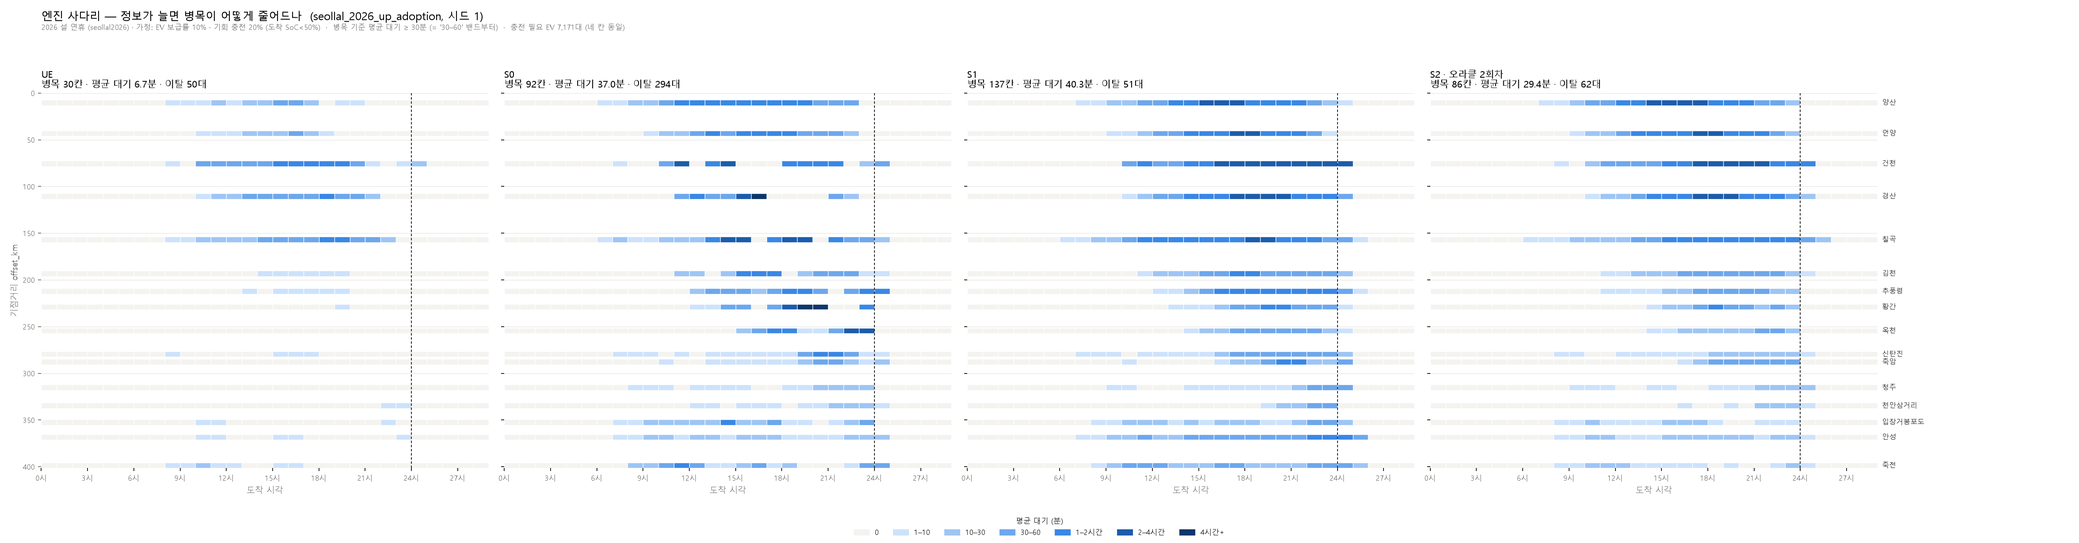
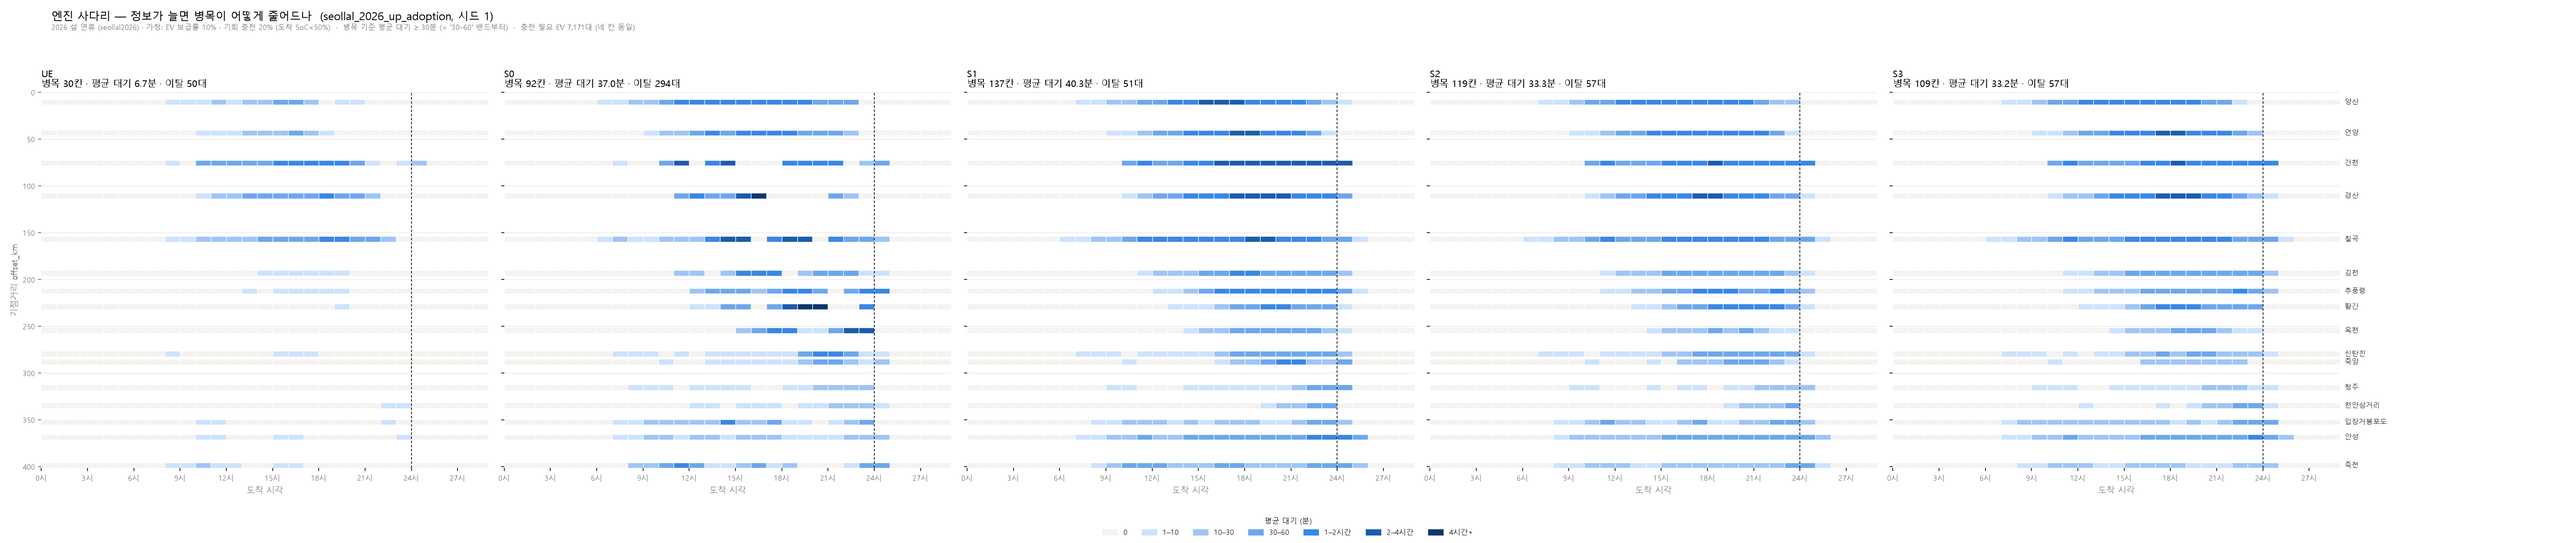
docs: 중간 발표 슬라이드별 구성 21장 (문구·숫자·그림)
presentation_midterm.md 의 내용을 **슬라이드 한 장 = 한 블록**으로 쪼갰다.
각 장에 할 말 · 올릴 숫자 · 쓸 그림을 적었다.

- 21장 · 21.0분 (20분 목표에서 1분 여유만)
- 그림은 **실제로 있는 파일만** 참조한다. 직접 그릴 3개(바닥–천장 선분 ·
  MEC 연쇄 · 사다리 계단)와 직접 받을 1개(뉴스 캡처)를 따로 표시
- 히트맵 사다리를 5칸(UE│S0│S1│S2│S3)으로 재생성했다 — 10/13 자였고
  지표 이름 변경과 S3 이전이었다

구성에서 바꾼 것:
- 쏠림(균등도) 지표를 **독립 슬라이드에서 빼고** 15번(S1은 붙잡아서 이긴다)에
  합쳤다. 따로 띄우면 우리 결론의 반례가 된다 (배율 1.2/1.2/1.3/1.2)
- 16번(메인 그림)에서 **§1 3번 슬라이드를 회수**하도록 동선을 짰다 —
  '총량이 아니라 배분' 이 '가운데가 올라간다' 로 증명된다
- 13번(S3 판정)에 **n=5 → n=14 에서 내 주장이 무너진 표**를 넣었다

diff --git a/docs/presentation_slides.md b/docs/presentation_slides.md
@@ -1,0 +1,393 @@
+# 중간 발표 — 슬라이드별 구성 (2026-10-30 · 20분)
+
+> 내용의 근거와 긴 설명은 [`presentation_midterm.md`](presentation_midterm.md).
+> 이 문서는 **슬라이드 한 장 = 한 블록**이다.
+>
+> 표기: **말** = 그 장에서 할 핵심 문장 · **수** = 올릴 숫자 · **그림** = 쓸 파일
+
+| | 장 | 슬라이드 | 분 |
+|---|---|---|---:|
+| §1 | 문제 | 1~4 | 5.0 |
+| §2 | 비용 (**novelty**) | 5~7 | 3.0 |
+| §3 | 재현 | 8~10 | 2.5 |
+| §4 | 엔진 | 11~13 | 3.0 |
+| §5 | 이탈 | 14~15 | 1.5 |
+| §6 | **시각화 (메인)** | 16~18 | 4.0 |
+| §7 | 예측 | 19 | 1.0 |
+| §8 | 결합 | 20 | 0.7 |
+| §9 | 일반화 | 21 | 0.3 |
+| | | **21장** | **21.0** |
+
+---
+
+# §1 문제 (5분)
+
+## 1. 표지 + 한 줄 — 0.3분
+
+- **제목**: 경부고속도로 EV 충전 디지털 트윈과 배정 최적화 엔진
+- **부제 (이 발표의 주장)**: *"명절 충전 대기는 충전기가 모자라서가 아니라,
+  어디로 갈지를 아무도 조정하지 않아서 생긴다"*
+- 그림: 없음 (또는 `corridor3d_s1.html` 정지 화면 한 컷)
+
+## 2. 뉴스 — 1.5분
+
+- **말**: *"작년 추석에 실제로 벌어진 일입니다"*
+- **수**
+  - 전기차 **1.7M대** 이동 추정 vs 고속도로 충전기 **1,590기**
+  - 충전기의 **43%가 완속** · 사이트 간 최대 **70km 공백**
+  - 대응: 이동형 충전차 투입(1대당 20kWh, **SoC 50% 이하 우선**)
+  - 도로공사: **400kW 23개소** 신설 — *"휴게소에서는 충전 속도가 곧 운전자의 시간"*
+- 그림: **기사 캡처 2장** ← 직접 받으셔야 함
+
+## 3. ★ 후크 — 총량이 아니라 배분 — 1.5분
+
+- **말**: *"그런데 같은 기사에 이용률이 같이 있습니다"*
+- **수** (12~18시 평균)
+  ```
+  충전기 2기 이하 사이트   50.3%
+  충전기 7기 이상 사이트   33.5%
+  ```
+  - *"같은 노선에서 어떤 휴게소는 붐비는데 근처는 여유"*
+- **말 (이 발표 전체의 전제)**: **큰 데는 남는데 작은 데가 막힌다 → 배분의 문제다**
+- 그림: 두 숫자만 크게. 다른 건 넣지 말 것
+
+## 4. 디지털 트윈 · UE · 스코프 — 1.7분
+
+- **디지털 트윈** = 실측으로 만든 그 날의 쌍둥이. 돌릴 수 있으면
+  *"만약 다르게 배정했다면"* 을 물어볼 수 있다 ← 이게 목적
+- **UE** = *"모두가 패턴을 완벽히 학습했다면"* 의 상태 (Wardrop 균형)
+- ⚠ **먼저 못 박기** (안 하면 질문으로 돌아온다)
+  - **최적해가 아니다** — 각자 자기 비용만 줄인 **이기적 균형**
+  - **현실도 아니다** — 실시간 엔진이 **가질 수 없는 정보**를 쓴다
+  - → **바닥 S0 · 천장 UE**, 성과는 *"그 사이 거리 중 몇 %를 좁혔나"*
+- **스코프**
+  | 한다 | 경부선 415km 상·하행 · 2026 설 · **휴게소 배정** |
+  |---|---|
+  | **안 한다** | 시내 충전 · 요금 정책 · **충전기 증설 입지** · 실시간 서비스 |
+- **말**: *"증설을 안 다루는 이유 — 같은 충전기로 얼마나 나아지는지의 상한을 먼저
+  잽니다. 작으면 증설이 답이고 크면 조정이 답입니다"*
+- 그림: 바닥–천장 개념도(S0 ─── UE 선분에 화살표) ← **직접 그리기, 간단**
+
+---
+
+# §2 비용 — novelty (3분)
+
+## 5. 외부효과 — 1분
+
+- **수식 세 줄만**
+  ```
+  사적 비용 PC    내가 겪는 체류시간
+  외부비용 MEC    내가 끼어들어 남들이 더 쓰게 된 시간
+  사회적 비용 SC = PC + MEC
+  ```
+- **말**: *"교통경제학의 고전적 구조입니다. 새로운 건 충전소 배정에 적용할 때
+  **무엇을 재는가** 입니다"*
+- 그림: 없음
+
+## 6. ★ 왜 대기가 아니라 **종료시각**인가 — 1분
+
+- **수식**
+  ```
+  MEC = Σ(내가 있을 때 남들의 충전 종료시각) − Σ(없을 때)
+  ```
+- **연쇄를 한 줄씩 보이기**
+  ```
+  내가 들어온다 → 충전기 배정이 바뀐다 → 그 차가 받는 출력이 바뀐다
+               → 충전시간이 바뀐다 → 종료시각이 바뀐다
+  ```
+- **말**: *"대기만 세면 **출력이 바뀌어 충전이 길어진 몫**을 놓칩니다.
+  이게 저희가 가져가는 기여의 핵심입니다"*
+- 그림: 위 연쇄 화살표 ← **직접 그리기**
+
+## 7. ★★ 워크드 예제 — 1분 (이 장이 발표의 심장)
+
+- **상황**: 충전 필요한 차 1대, 후보 2곳, 둘 다 100kW × 2기
+  | | A | B |
+  |---|---|---|
+  | | 가깝다 · 60분 후 도착 · SoC 30% | 30km 더 · 78분 후 · SoC 24% |
+- **수 (네 개만 외우게)**
+  | | 사적 | 외부 | **사회** |
+  |---|---:|---:|---:|
+  | A | 43.0 | **22.0** | **65.0** |
+  | B | 48.4 | 0.0 | **48.4** |
+  ```
+  사적 기준 → A      사회 기준 → B      시스템 16.6분 절약
+  ```
+- **덧붙일 한 줄**: *"외부효과는 고르게 안 퍼집니다 — 바로 뒤 한 대가 **19분**,
+  나머지는 1.5분"*
+- **하단에 작게**: `총 사회적 비용 = 총 체류 + 이탈 × 120분`
+  - ⚠ *"120분은 **근거 없는 가정**입니다"* → **60·120·180·240 전부에서 순서 불변**
+- 그림: 표 자체가 그림
+
+---
+
+# §3 재현 (2.5분)
+
+## 8. 데이터와 EV 물리 — 1분
+
+- **수**
+  ```
+  VDS 교통량·속도   각 63,360행      중심선 4,226점 · 415.058km
+  TCS OD            영업소 42곳       휴게소 35곳 · 충전기 282기
+  CTM 셀            792개             실측 충전이력 11,405건 / 29개소
+  ```
+- **EV 물리**: 차종 5종 · 충전곡선 20구간 · 온도 9지점
+- **말 (하나만 강조)**: *"−5°C 에서 주행거리 ×0.828, 충전출력 ×0.610 —
+  **겨울 명절은 덜 가고 더 오래 충전합니다**. 그래서 수요가 커집니다"*
+- 그림: `docs/figures/t07_hourly_volume.png` (VDS 시간대 교통량)
+
+## 9. ★ CTM 1장 마일스톤 — 1분
+
+- **마일스톤**: `구현(#56) → 검증(#58) → 진단 → 결정`
+- **수**
+  | 지표 | 기준 | 결과 | |
+  |---|---|---:|---|
+  | 속도 MAPE | ≤15% | **14.37%** | ✅ |
+  | 정체 재현율 | ≥0.50 | **0.00** | ❌ |
+  | 정체 오경보 | ≤0.30 | 0.00 | ✅ |
+  | 질량보존 | 0 | **0대** | ✅ |
+- **MAPE 한 줄 설명**: 평균 절대 백분율 오차 `|실측−모형|/실측`
+- **★ 지표 하나만 보면 속는다**: *"재현율만 보면 **전 구간을 정체라고 우기는
+  모형이 만점**입니다. 그래서 오경보를 같은 무게로 봅니다"*
+- **진단**: 실측 수요가 **용량의 68%** → 붕괴 조건에 도달하지 않음
+  (1.5배에서 정체 시작 · 2.5배 포화) → **기본 실행은 `travel_time: fixed`**
+- 그림: `docs/figures/ctm_speed_validation.png`
+
+## 10. 기술 챌린지 — 측정이 속인 네 번 — 0.5분
+
+- **말**: *"예측을 비관적으로 만들면 한계 차량이 코리도를 **나갑니다**.
+  나간 차는 충전기를 안 쓰니 남은 줄이 짧아집니다. **성능이 좋아진 게 아니라
+  측정 대상이 줄어든 겁니다**"*
+- **수**: `S0 294대 · 예측강도2 847대 · 흐린오라클 404대 · 예측강도0.5 78대`
+  - *"마지막 건 **발표 문장까지 갔다가** 잡혔습니다"*
+- **결론**: 규칙을 코드로 박음 — **"비교할 때는 이탈을 맞춘다. 못 맞추면 성과
+  지표를 안 찍는다"** → 벗어나면 스크립트가 **"판정 보류"** 를 출력
+- 그림: 없음 (말로)
+
+---
+
+# §4 엔진 (3분)
+
+## 11. 두 축으로 정의한다 — 1분
+
+- **표**
+  | 칸 | 정보 축 | 결합 축 |
+  |---|---|---|
+  | **S0** 바닥 | 지금 화면의 큐만 | 차량마다 독립 |
+  | S1 | **+ 이미 배정된 차의 미래 점유** | 순차 |
+  | S2 | **+ 내 도착 시점의 미래 큐** | 순차 |
+  | S3 | S2 그대로 | **+ 윈도우 안 동시 결정** |
+  | S4 | S2 그대로 | **+ 시간축 결합(롤링)** |
+- **말**: *"한 번에 **한 축만** 올립니다. 그래야 무엇이 효과를 냈는지 말할 수 있습니다"*
+- 그림: 사다리 계단 그림 ← **직접 그리기**
+
+## 12. ★★ 사다리 결과 + 격차 분해 — 1.5분
+
+- **수 (14시드 · 대응비교 · 이탈 맞춤)**
+  | 칸 | 총 사회적 비용 | ±95% | **격차 축소율** |
+  |---|---:|---:|---:|
+  | UE (천장) | 2,557.6h | 98.3 | 100% |
+  | **S0 (바닥)** | **7,516.1h** | 285.7 | **0%** |
+  | S1 | 7,290.8h | 281.7 | **+4.5%** |
+  | **S2** | **6,474.2h** | 313.6 | **+21.0%** |
+  | *완전예측* | *6,151.8h* | *183.5* | *27.5%* |
+  - 평균 대기 **38.5 → 33.1분** · p95 **131.2 → 106.4분**
+- **★ 가장 할 말이 많은 칸은 완전예측 27.5%**
+  ```
+  관측 가능한 예측   21.0%
+  완전히 알면        27.5%
+  ─────────────────────────
+  예측 오차 손실     6.5 ± 3.7 %p   ← 예측을 더 잘해서 얻을 몫
+  남은 몫            72.5%p         ← 정보로는 못 메운다
+  ```
+- **말**: *"'예측을 더 잘하면 되지 않나' 에 대한 답이 이 숫자입니다.
+  남은 72.5%는 **조정과 용량**의 몫입니다 — 로드맵을 숫자로 정한 겁니다"*
+- 그림: 표 + 막대 하나 (0 → 4.5 → 21.0 → 27.5 → 100)
+
+## 13. ★ S3 판정 — 0.5분
+
+- **수**
+  ```
+  S3 − S2 = +1.20 ± 2.01 %p      (대응비교, n=14)
+    구간 상단 +3.21%p  <  미리 정한 기준 5%p   →  기준 미달이 확실
+    구간 하단 −0.82%p  <  0                    →  0 과도 구분 안 됨
+  ```
+- **말 (이 장이 세다)**: *"결과를 보기 **전에** 기준을 정해 뒀고, 그 기준으로
+  **우리 가설을 기각**했습니다"*
+- **해석**: `정보 축 +16.5%p  vs  공간 결합 +1.2%p`
+  → *"같은 Δt 안의 차들끼리는 이미 거의 간섭하지 않습니다. S1의 예약원장이
+  공간 조정의 몫을 이미 다 가져갔습니다"*
+- **⚠ 같이 말할 것** (이게 신뢰를 만든다)
+  | | n=5 | **n=14** |
+  |---|---|---|
+  | S3 − S2 | +3.08 ± 4.48 %p | **+1.20 ± 2.01 %p** |
+  | 병목 칸 | **5시드 전부 감소 −13%** | **10/14 · −5.1 ± 5.7 (0 포함)** |
+  - *"'전부 같은 방향' 이 유의성의 근거가 못 됩니다. S1에서도 똑같이 겪었습니다"*
+- 그림: 없음 (숫자만)
+
+---
+
+# §5 이탈 (1.5분)
+
+## 14. 이탈을 왜 비용에 넣나 — 0.8분
+
+- **말**: *"충전을 포기하고 고속도로를 나가는 차를 안 세면, **차를 내보내는
+  엔진이 이깁니다**"*
+- **수** (14시드 평균)
+  | 칸 | 전체 | **줄이 길어서** | 닿는 곳 없어서 | 중간에 멈춤 |
+  |---|---:|---:|---:|---:|
+  | UE | 42.3 | 41.1 | 1.1 | **0.0** |
+  | **S0** | **238.9** | **193.1** | 0.6 | 45.1 |
+  | S1 | 55.5 | **24.8** | 0.6 | 30.1 |
+  | S2 | 60.1 | 31.2 | 0.6 | 28.3 |
+  ```
+  줄이 길어서 나간 차:  193.1 → 24.8   (−87%)
+  ```
+- **이유로 나눈 까닭**: *"'줄이 길어서'는 엔진이 고칠 수 있고, '닿는 곳이 아예
+  없어서'는 충전기 간격 문제입니다. 묶으면 **못 고치는 몫까지 성과로 셉니다**"*
+- 그림: `docs/figures/escaped_up_S0_seed1.png` · `escaped_up_S1_seed1.png`
+
+## 15. ★ S1은 "빠르게"가 아니라 "붙잡아서" 이긴다 — 0.7분
+
+- **수**
+  | 지표 | S0 | S1 | |
+  |---|---:|---:|---|
+  | 이탈 | 238.9 | **55.5** | S1 압승 −77% |
+  | **병목 칸** | 93.5 | **133.1** | **S1 패 — 14시드 전부** |
+  | 평균 대기 | 38.5 | 39.3 | S1 약간 패 |
+  | 총 사회적 비용 | 7,516 | **7,291** | **S1 승** (9/14) |
+- **말**: *"S0는 못 기다리는 차 **239대를 밖으로 내보냅니다.** 나간 차는 충전기를
+  안 쓰니 줄이 짧아집니다. S1은 그 차들을 **붙잡습니다** — 줄이 생기고 병목이
+  늘지만 **2시간짜리 이탈을 면합니다**"*
+- **⚠ 쏠림(균등도) 지표는 여기 같이 둘 것.** 따로 띄우면 반례가 된다
+  - 최다 휴게소 배율 `1.2 / 1.2 / 1.3 / 1.2` — 거의 안 움직이고 S1이 나쁘다
+- 그림: 없음 (표)
+
+---
+
+# §6 시각화 — 메인 (4분)
+
+## 16. ★★★ 휴게소별 대기 + 밀어낸 차 — 2분
+
+- 그림: **`docs/figures/station_bars.png`** ← 이 발표의 결론 그림
+- **말할 것 세 개, 순서대로**
+  1. **최악이 깎인다**
+     ```
+     건천 157.3 → 67.0 → 53.0분   (−66%)
+     경산  87.0 → 71.2 → 58.1
+     ```
+  2. **★ 가운데가 올라간다 — 재분배의 증거**
+     ```
+     안성   13.6 → 25.0   신탄진 12.3 → 20.8   죽암 14.2 → 24.7
+     ```
+     *"전체가 같이 좋아진 게 아니라 **차가 옮겨 간 겁니다**. 한가한 휴게소가
+     쓰이기 시작했고, 그 대가로 중간 휴게소 대기가 올라갔습니다"*
+     → **§1 3번 슬라이드(총량이 아니라 배분)를 여기서 회수한다**
+  3. **아래 막대가 무너진다**
+     ```
+     칠곡 95.8 → 12.7 → 3.9대     ← 칠곡 하나가 S0 이탈의 절반
+     ```
+- **가리킬 것**: 점선이 S0 실루엣. **중간 휴게소는 점선을 넘어선다**
+- 전체 평균: **43.6 → 37.8 → 31.4분** · 밀어냄 **193 → 25 → 31대**
+
+## 17. 3D 라이브 — 1.5분
+
+- 그림: **`docs/figures/corridor3d_ladder.html`** (3칸) — 브라우저로 직접
+  - 필요하면 `corridor3d_s1.html` 로 먼저 한 칸 크게
+- **순서**: 00:00(기둥 없음) → **16:40 으로 스크럽** → 기둥이 선다
+- **읽는 법 세 줄**: `높이 = 줄` · `색 = 대기` · `굵기 = 충전기 수`
+  - ⚠ **"이용률 아님"** 을 반드시 말할 것 (2차 발표에서 오해받음)
+- **아래로 뻗는 기둥 = 그 휴게소가 밀어낸 차**
+  ```
+  16:40   S0 239대  →  S1 20  →  S2 30      (칠곡 한 곳이 S0 112대)
+  ```
+- **범례는 `h` 키로 접힌다** (접어도 정규화 기준 한 줄은 남음)
+- ⚠ **그림은 시드 1 이다. 숫자는 12번 슬라이드 표를 쓸 것**
+
+## 18. 히트맵 사다리 — 0.5분
+
+- 그림: **`docs/figures/ladder_up_seed1.png`** (UE│S0│S1│S2│S3, 5칸)
+- **말**: *"세로가 거리, 가로가 시각, 색이 대기입니다. **짙은 칸이 병목**입니다"*
+- **수**: `병목 칸 UE 30 · S0 92 · S1 137 · S2 119 · S3 109` (시드 1)
+- **말**: *"S1에서 칸이 **늘어난** 건 15번 슬라이드에서 설명한 그대로입니다"*
+
+---
+
+# §7 예측 (1분)
+
+## 19. 단기 수요 예측 — 1장
+
+- **원리 세 줄만**
+  ```
+  ① 상류 파이프     내 SoC 로 갈 수 있는 거리 안에 있는 차들
+  ② 정차 확률       그 휴게소 충전기 몫 ÷ 경쟁 휴게소 충전기 합
+  ③ 신뢰도          예측을 얼마나 믿나 (0 이면 S1 과 같다)
+  ```
+- **말**: *"**진입 시각·진입 지점·충전기 수만** 봅니다. 목적지·SoC·계획은 안 봅니다 —
+  실시간에 알 수 없는 걸 쓰면 그건 예측이 아닙니다"*
+- **수**: `관측 예측 21.0%  /  완전예측 27.5%  →  예측 오차 손실 6.5 ± 3.7 %p`
+- **순서를 거꾸로 한 이유**: *"예측기를 먼저 만들면 결과가 나빠도 **예측이 나쁜
+  건지 예측이 애초에 쓸모없는 건지** 구분할 수 없습니다. 그래서 천장부터 쟀습니다"*
+- 그림: 없음
+
+---
+
+# §8 시간·공간축 결합 (0.7분)
+
+## 20. S3 vs S4 — 1장
+
+- **표**
+  | | S3 (공간) | S4 (시간) |
+  |---|---|---|
+  | 같이 정하는 범위 | 같은 Δt 의 차들 | **시간을 넘어서** |
+  | 재배정 | ❌ | ✅ |
+  | 지평선 끝 | — | **terminal penalty** |
+  | 방법 | 그리디 + 이동·교환 | 롤링 MILP |
+- **말 (S3에서 배운 것)**: *"티켓엔 '교환'만 적어 뒀는데 교환만으로는 **성공이
+  0**이었습니다 — **쏠린 배정은 둘이 같은 곳이라 교환 대상이 아닙니다.**
+  연산자가 약하면 '개선할 게 없다'고 **잘못 보고**하게 됩니다"*
+- **S4의 전제**: Δt 안에 계산이 끝나는가. S3가 이미 S2의 **3.1배**(24.8→76.8초)
+  → MILP에는 **시간 초과 fallback** 이 함께 설계돼 있다
+- 그림: 없음
+
+---
+
+# §9 일반화 (0.3분)
+
+## 21. 추석으로 갈아 끼운다 — 1장
+
+- **말**: *"시간축은 스위치로 빼 뒀습니다"* → `--period chuseok2026`
+- **2026 추석 9/24(목)~9/27(일), 추석 9/25(금)** 데이터 확보 중
+- **받는 것 6가지**: 충전이력(**열 정의 확인**) · TCS OD · VDS · **기온** ·
+  충전기 공급 스냅샷 · 평시 대조군
+  - *"추석 시점 공급 스냅샷이 들어오면 **설의 가장 큰 약점이 사라집니다**"*
+- **⚠ 미리 못 박아 둔 것**
+  | 결과 | 그때 할 일 |
+  |---|---|
+  | 추석이 더 막힘 | 주 무대를 추석으로 |
+  | 비슷함 | 둘 다 보고 — *"명절 자체가 아직 임계 아래"* |
+  | 추석이 덜 막힘 | 설 유지 — *"같은 모델이 두 기간을 재현한다"* |
+  - *"셋 다 발표할 수 있습니다. 조용히 유리한 쪽으로 돌아가면 **결과를 보고 골랐다**가 됩니다"*
+- 그림: 없음
+
+---
+
+# 부록 — 질문 받으면 꺼낼 장
+
+| 질문 | 꺼낼 것 |
+|---|---|
+| "실측입니까?" | **EV 보급 10% 가정 레이어**가 있다. 실측 5%에선 혼잡이 거의 없다 — **먼저 말할 것** |
+| "UE가 최적?" | 아니다. Wardrop 균형. 참고 천장 |
+| "점유시간 맞나?" | 아니다. **실측 −65%**. 두 축(충전량/출력·유휴)으로 분해, **41.5%가 충전량으로 설명 안 됨** |
+| "이탈 120분 근거?" | 없다. 60~240분 **민감도로 순서 불변** |
+| "왜 S1이 4.5%뿐?" | **15번 슬라이드** |
+| "CTM이 정체를 못 잡는데?" | 기본 실행은 CTM을 **안 쓴다**(`fixed`). 용량 측정에만 썼다 |
+
+# 준비물 체크
+
+- [ ] **뉴스 기사 캡처 2장** (이용률 50.3% vs 33.5% 포함) ← 유일하게 직접 받을 것
+- [ ] 직접 그릴 그림 3개: 바닥–천장 선분(4번) · MEC 연쇄(6번) · 사다리 계단(11번)
+- [x] `station_bars.png` · `ladder_up_seed1.png` · `ctm_speed_validation.png`
+- [x] `corridor3d_ladder.html` (범례 `h` 로 접힘)
+- [ ] **1장을 4분으로** 연습 (5분은 상한)
+- [ ] 3D 를 **미리 띄워 두기** — 발표 중 로딩 금지
